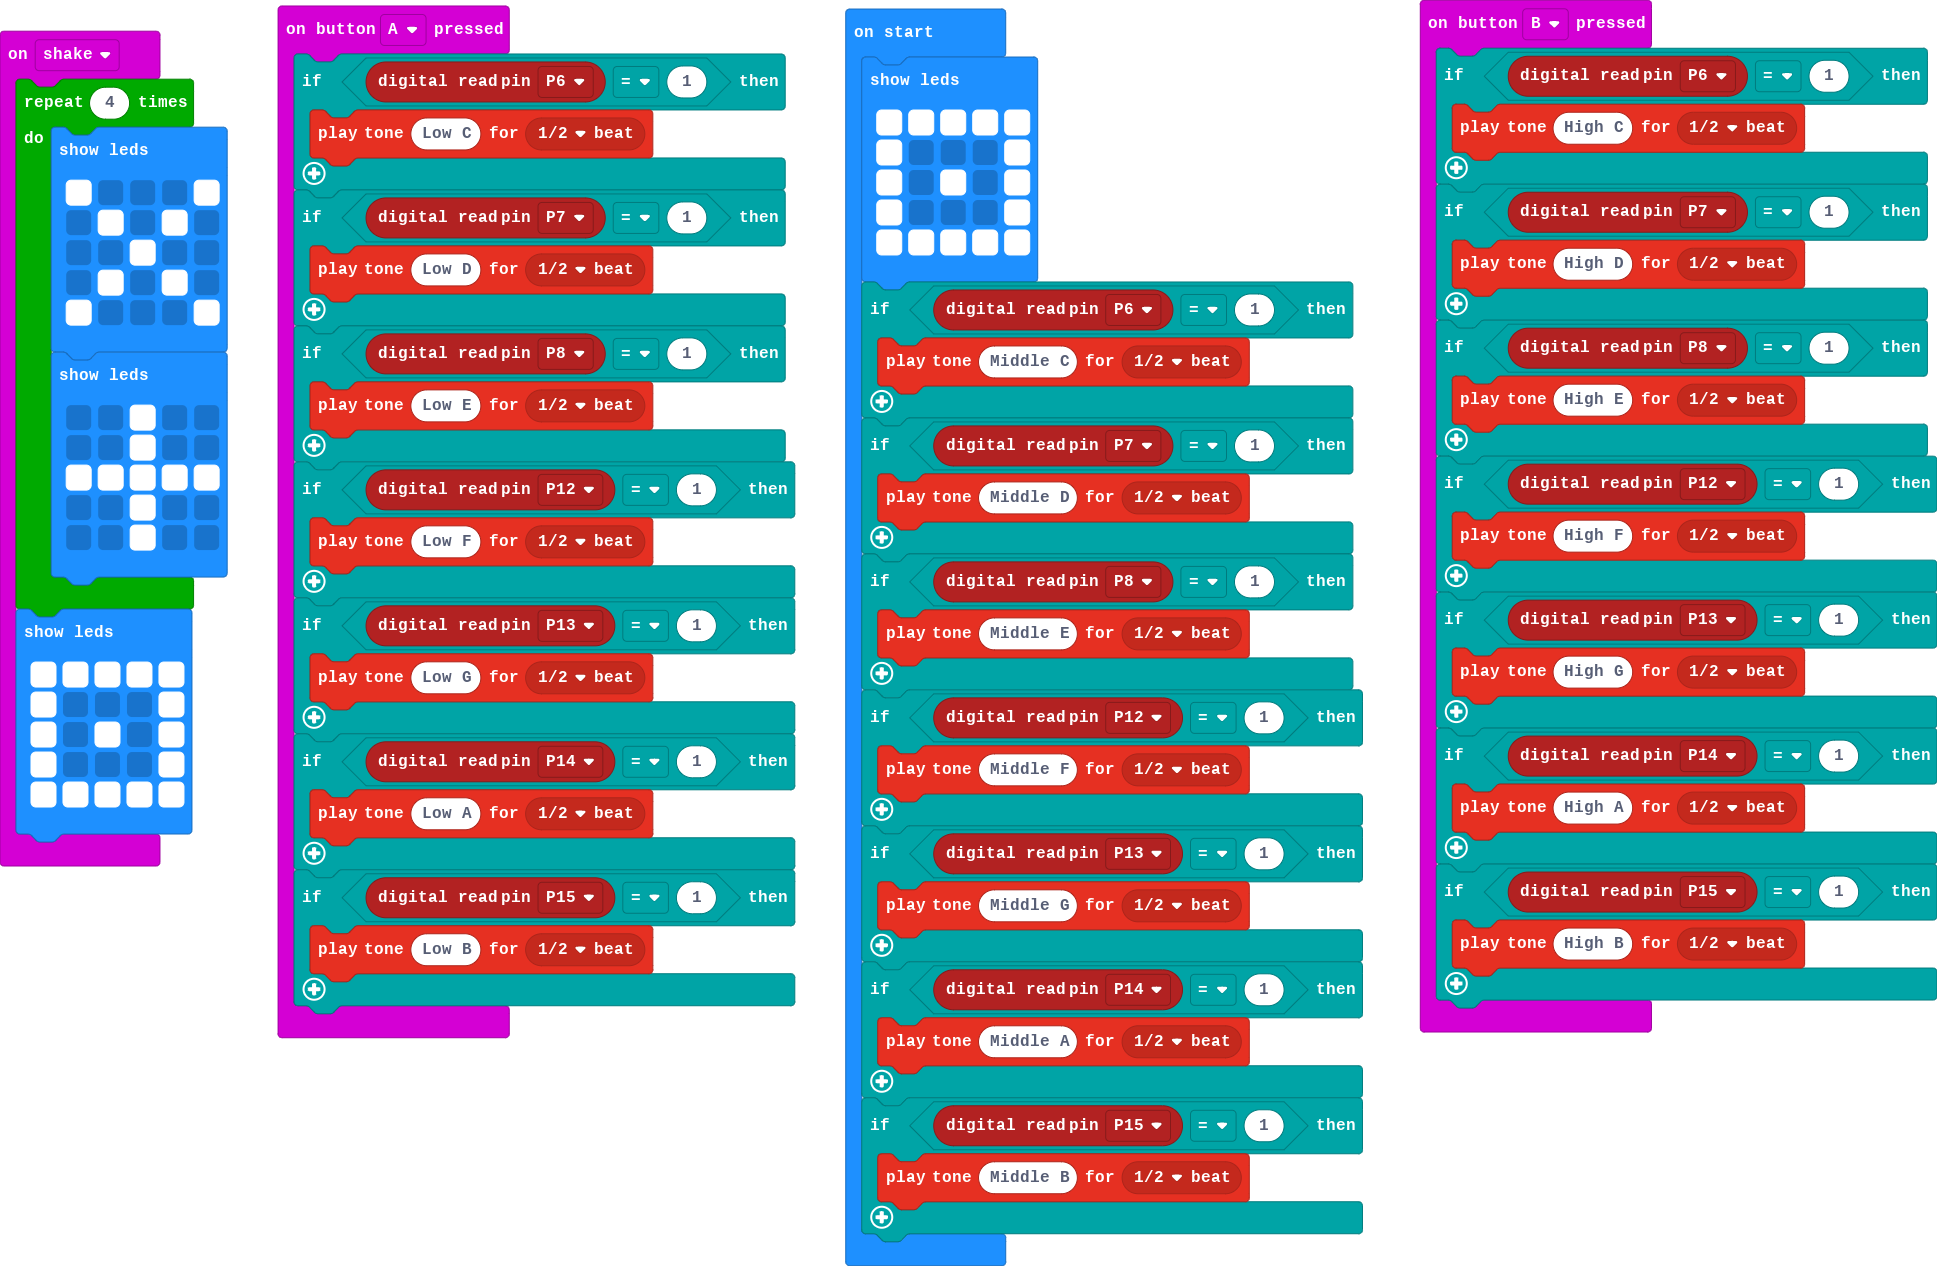
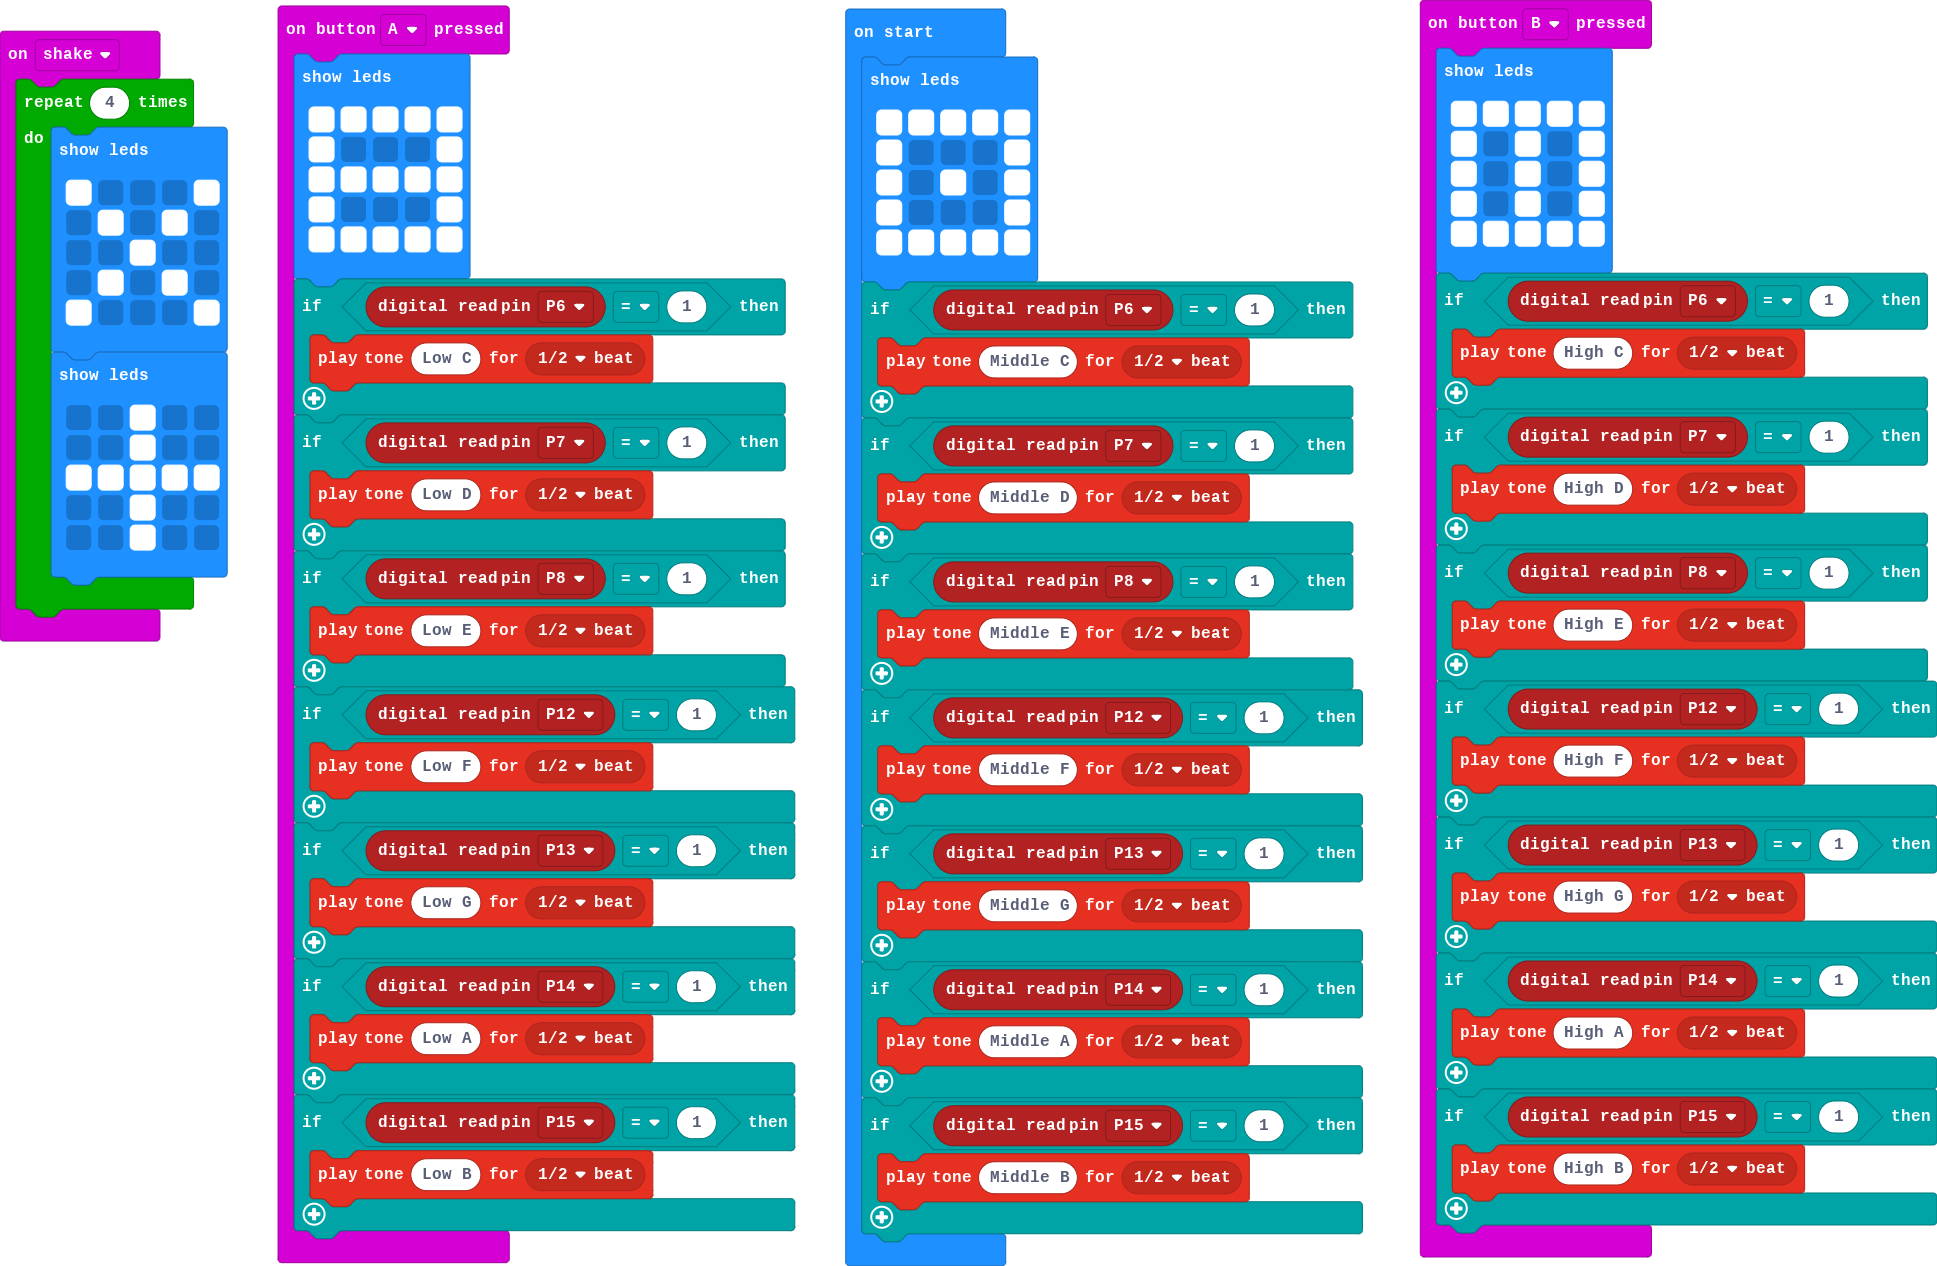
Update main.blocks, main.ts

diff --git a/main.ts b/main.ts
@@ -1,4 +1,11 @@
 input.onButtonPressed(Button.A, function () {
+    basic.showLeds(`
+        # # # # #
+        # . . . #
+        # # # # #
+        # . . . #
+        # # # # #
+        `)
     if (pins.digitalReadPin(DigitalPin.P6) == 1) {
         music.playTone(131, music.beat(BeatFraction.Half))
     }
@@ -22,6 +29,13 @@ input.onButtonPressed(Button.A, function () {
     }
 })
 input.onButtonPressed(Button.B, function () {
+    basic.showLeds(`
+        # # # # #
+        # . # . #
+        # . # . #
+        # . # . #
+        # # # # #
+        `)
     if (pins.digitalReadPin(DigitalPin.P6) == 1) {
         music.playTone(523, music.beat(BeatFraction.Half))
     }
@@ -61,13 +75,6 @@ input.onGesture(Gesture.Shake, function () {
             . . # . .
             `)
     }
-    basic.showLeds(`
-        # # # # #
-        # . . . #
-        # . # . #
-        # . . . #
-        # # # # #
-        `)
 })
 basic.showLeds(`
     # # # # #
